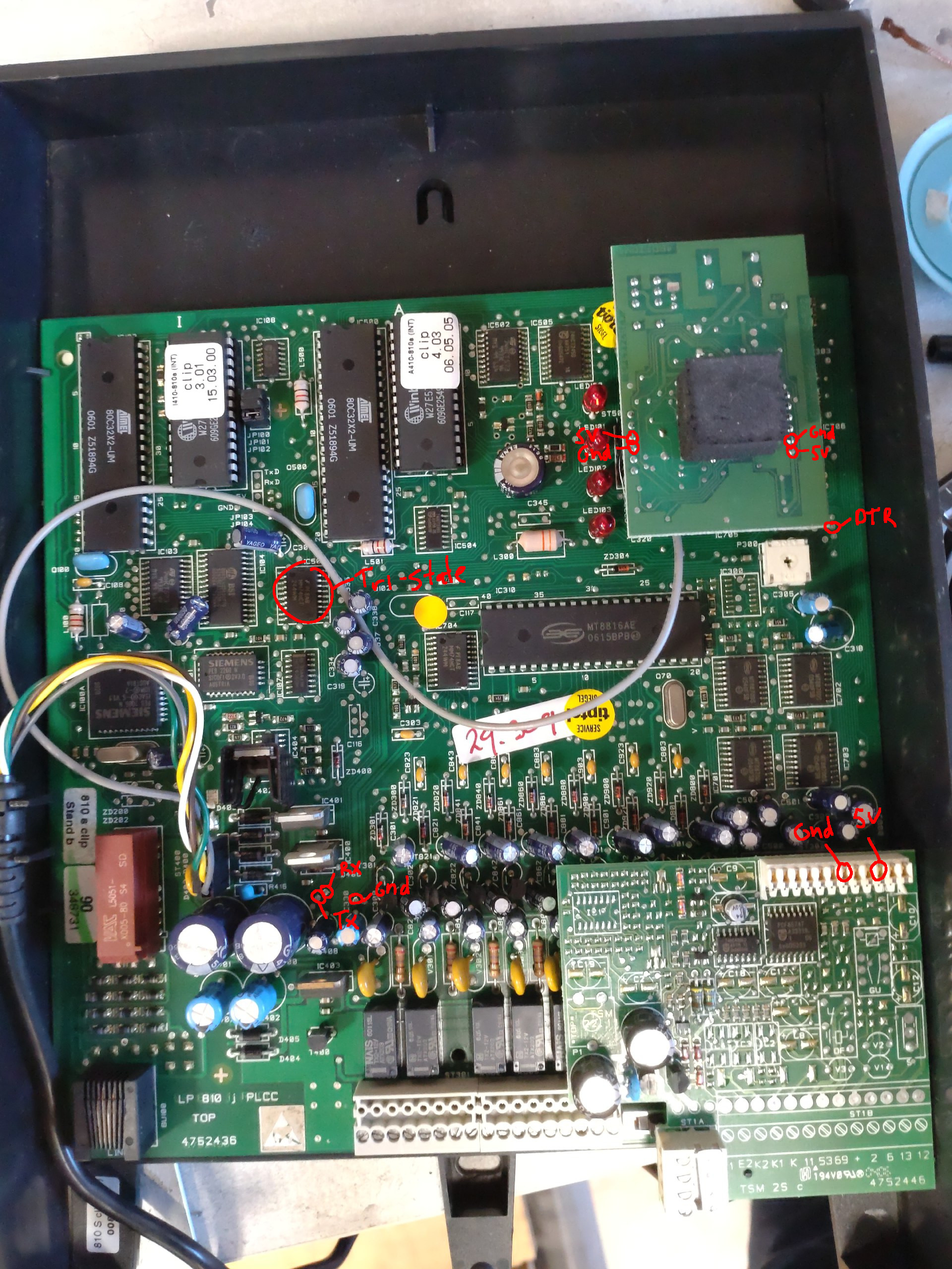
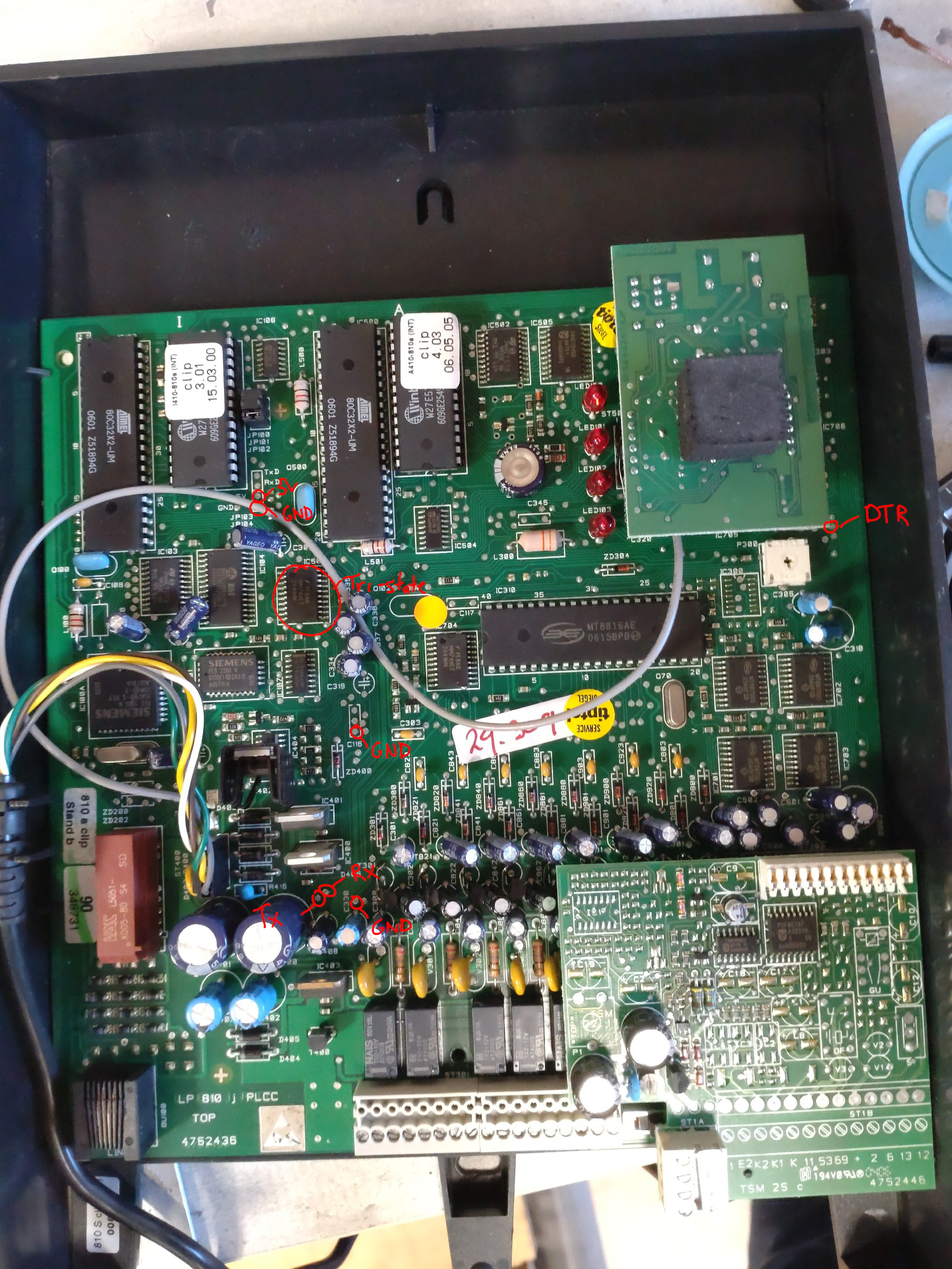
chore: updated readme

diff --git a/README.md b/README.md
@@ -1,5 +1,6 @@
 # Tiptel 810 S clip programming interface
-This project connects to the (old quare model) Tiptel 810 S serial port to read and write settings and call data.
+This project connects to the (old square model) Tiptel 810 S serial port to read and write settings and call data.
+For programming with both extension 1 and using serial, you need to put the switch in "program" mode
 
 This is currently a work in progress; the protocol is more or less decoded, but not all commands are known or documented.
 
@@ -15,10 +16,11 @@ Run the "test" tool:
 ## TTL modification
 * Remove the AN232B chip on the bottom left side on the back of the PCB
 * Tap into the vias:
-  * TX, RX and GND: near the big electrolytic capacitors
+  * TX, RX: near the big electrolytic capacitors
+  * VCC: header between the processors at the top
+  * GND: header between the processors at the top  
+  also the bottom pin of the 3 pin header near the big electrolytic capacitors
   * DTR: below the CLIP addon board/header
-  * VCC: either on the extension-8 header or CLIP addon header\
-  TODO: find a VCC-via
 
 [<img src="resources/front.jpg" width="400" height="auto">](resources/front.jpg)
 [<img src="resources/back.jpg" width="400" height="auto">](resources/back.jpg)
@@ -35,7 +37,28 @@ Look into the resources folder for full resolution images.
 
 
 ## Instructions
-All instructions are noted in hexadecimal.
+Note that all instructions are noted in hexadecimal; `10` means `16` in decimal or `00010000` in binary.
+
+Steps for a message exchange:
+
+* set DTR low, wait for 3 `05` 'heartbeat' messages (about 190mS)
+* send `attention length data.. checksum`, where:
+    * `attention` is `06`
+    * `length` is the length of the data + checksum, 1 byte
+    * `data..` is probably an EEPROM address or command (to be determined)
+    * `checksum` is an XOR of the data only (if one byte, it'll be the same byte), 1 byte
+* receive `attention modifier?`, where:
+    * `attention` always seems `06`
+    * `modifier` always seems +`01`; `80` becomes `81`
+* send `attention`
+* receive `length addr... data...` checksum, where:
+    * `length` is the length of the addr + data + checksum, 1 byte
+    * `addr` seems 1 or 2 bytes, seems XORed with the modifier (second byte differs per response so the address or command width might be variable)
+    * `data` might have decimal numbers mapped to hexadecimal, i.e. `01 96` represents MSN `196`
+    * `checksum` is an XOR of the address + data, 1 byte
+* set DTR high and send `attention` (EOT actually)
+
+Special bytes:
 ### ready
 * `01`
 ### apply/store
@@ -44,76 +67,133 @@ All instructions are noted in hexadecimal.
 * `05`
 ### attention/ACK
 * `06`
+
+These commands are part of the data (the attention and length byte are stripped for readability)
 ### read ISDN version (from other µC)
 * rd: `80 13`
-* rd response: `81 14 ?? ?? ?? VV VV vv vv DD DD MM MM YY YY YY YY SS 01 00`, where:
-  * `VV` is major version in ASCII
-  * `vv` is minor version in ASCII
-  * `DD` is day of month in ASCII
-  * `MM` is month in ASCII
-  * `YY` is year in ASCII
-  * `SS` is state of operation: `00`=disconnected, `02`=PTMP
+* rd response: `81 14 ?? ?? ?? vv vv rr rr dd dd mm mm yy yy yy yy ss pp 00`, where:
+  * `vv` is (major) version in ASCII
+  * `rr` is revision (minor version) in ASCII
+  * `dd` is day of month in ASCII
+  * `mm` is month in ASCII
+  * `yy` is year in ASCII
+  * `ss` is state of operation: `00`=disconnected, `02`=PTMP
+  * `pp` is state of programming mode: `00`=normal, `01`=programmable
 ### read analog version
 * rd: `A0`
-* rd response: `A1 ?? ?? ?? VV VV vv vv DD DD MM MM YY YY YY YY`, where:
-  * `VV` is major version in ASCII
-  * `vv` is minor version in ASCII
-  * `DD` is day of month in ASCII
-  * `MM` is month in ASCII
-  * `YY` is year in ASCII
-## command A4/A6
-TODO
-## command A8/AA
-TODO
-## unknown AC/AE
+* rd response: `A1 ?? ?? ?? vv vv rr rr dd dd mm mm yy yy yy yy`, where:
+  * `vv` is (major) version in ASCII
+  * `rr` is revision (minor version) in ASCII
+  * `dd` is day of month in ASCII
+  * `mm` is month in ASCII
+  * `yy` is year in ASCII
 
-## unknown B0/B2
-## command B4/B6
-TODO
-## unknown B8/BA
-## unknown BC/BE
+## generic settings
+* rd: `AC`
+* rd response: `AD mm ??`, where:
+  * `mm` probably are bit flags: `??em????`:
+    * `e`: `true`: external music on hold (only when `m` enabled), `false`: internal MOH
+    * `m` is music on hold enabled
 
-## unknown C0/C2
+## extension features
+* rd: `B0`
+* rd response: `B1 ad an rd rn ld ln id in md mn bd bn cd cd cn cn cf ct`, where:
+  * `ad` are extension bits: external access authorization day service
+  * `an` are extension bits: external access authorization night service
+  * `rd` are extension bits: external ringing signal day service
+  * `rn` are extension bits: external ringing signal night service
+  * `ld` are extension bits: long-distance dialling day
+  * `ln` are extension bits: long-distance dialling night
+  * `id` are extension bits: international dialling day
+  * `in` are extension bits: international dialling night
+  * `md` are extension bits: authorization memory dialling day
+  * `mn` are extension bits: authorization memory dialling night
+  * `bd` are extension bits: directory of blocked numbers activated day
+  * `bn` are extension bits: directory of blocked numbers activated night
+  * `cd cd` are extension crumbles: cost center during day service
+    * `00`: 1, `01`: 2, `10`: 3
+  * `cn cn` are extension crumbles: cost center during night service
+    * `00`: 1, `01`: 2, `10`: 3
+  * `cf` are extension bits: authorization call forwarding
+  * `ct` are extension bits: authorization call transfer
+
+## unknown B4/B6
+
+## command B8/BA
+TODO (12 bytes)
+
+## command BC/BE
+TODO (7 bytes)
+
+## command C0/C2
+TODO (5 bytes)
+
 ## PIN
-* rd: `C4 TT`
-* wr: `C6 TT DD DD`
+* rd: `C4 tt`
+* wr: `C6 tt dd dd`
 * special bytes:
-  * `TT` is type: `01`=call charge, `02`=programming
-  * `DD` is two PABX digits (`A`=0)
+  * `tt` is type: `01`=call charge, `02`=programming
+  * `dd` is two PABX digits (`A`=0)
+
 ## MSN allocation
 * rd: `C8`
-* rd response: `C9 BB BB BB BB BB BB BB BB BB BB`
-* wr: `CA BB BB BB BB BB BB BB BB BB BB`
+* rd response: `C9 bb bb bb bb bb bb bb bb bb bb`
+* wr: `CA bb bb bb bb bb bb bb bb bb bb`
 * special bytes:
-  * `BB` are bits
-## MSN assignment
-* rd: `CC II`
-* rd response: `CD II DD DD DD DD DD DD DD DD`
-* wr: `CE II DD DD DD DD DD DD DD DD`
-* special bytes:
-  * `II` is index `00..0A`, yes 11 numbers according to the original software
-  * `DD` is two PABX digits (`A`=0)
+  * `bb` are bits (TODO)
 
-## unknown D0/D2
-## unknown D4/D6
-## speed dial
-* rd: `D8 II`
-* rd response: `D9 II DD DD DD DD DD DD DD DD DD DD`
-* wr: `DA II DD DD DD DD DD DD DD DD DD DD`
+## MSN assignment
+* rd: `CC ii`
+* rd response: `CD ii dd dd dd dd dd dd dd dd`
+* wr: `CE ii dd dd dd dd dd dd dd dd`
 * special bytes:
-  * `II` is index `00..63`
-  * `DD` is two PABX digits (`A`=0)
-## read call charges (DB!)
+  * `ii` is index `00..0A`, yes 11 assignments according to the original software
+  * `dd` is two PABX digits (`A`=0)
+
+## command D0/D2
+TODO (index 0-9 + 10 bytes)
+
+## command D4/D6
+TODO (index 0-4 + 8 bytes)
+
+## speed dial
+* rd: `D8 ii`
+* rd response: `D9 ii dd dd dd dd dd dd dd dd dd dd`
+* wr: `DA ii dd dd dd dd dd dd dd dd dd dd`
+* special bytes:
+  * `ii` is index `00..63`
+  * `dd` is two PABX digits (`A`=0)
+## read call charges (DB, note command offset!)
 * rd: `DB yy mm dd yy mm dd`
-* rd response: `DC nn` 
-## read next entry (DE!)
+* rd response: `DC tt`
+* special bytes:
+  * `yy` is year in ASCII
+  * `mm` is month in ASCII
+  * `dd` is day in ASCII
+  * `tt` total amount of entries
+
+## read next entry (DE note command offset!)
 * rd: `DE`
-* rd response: `DD ll yy MM dd hh mm
-## unknown E0/E2
-## command E4/E6
-TODO
-## command E8/EA
-TODO
-## command EC/EE
-TODO
+* rd response: `DD ee yy mm dd hh nn`
+* special bytes:
+  * `ee` is entry number
+  * `yy` is year in ASCII
+  * `mm` is month in ASCII
+  * `dd` is day in ASCII
+  * `hh` is hour in ASCII
+  * `nn` is minute in ASCII
+
+## command E0/E2
+TODO (4 bytes)
+
+## unknown E4/E6
+
+## unknown E8/EA
+
+## unknown EC/EE
+
+## Notes
+* The CLIP addon board needs to be placed (including the gray cable) to have the ring signal
+* The intercom board needs to be placed to make sure extension 8 has a dial tone
+
 
